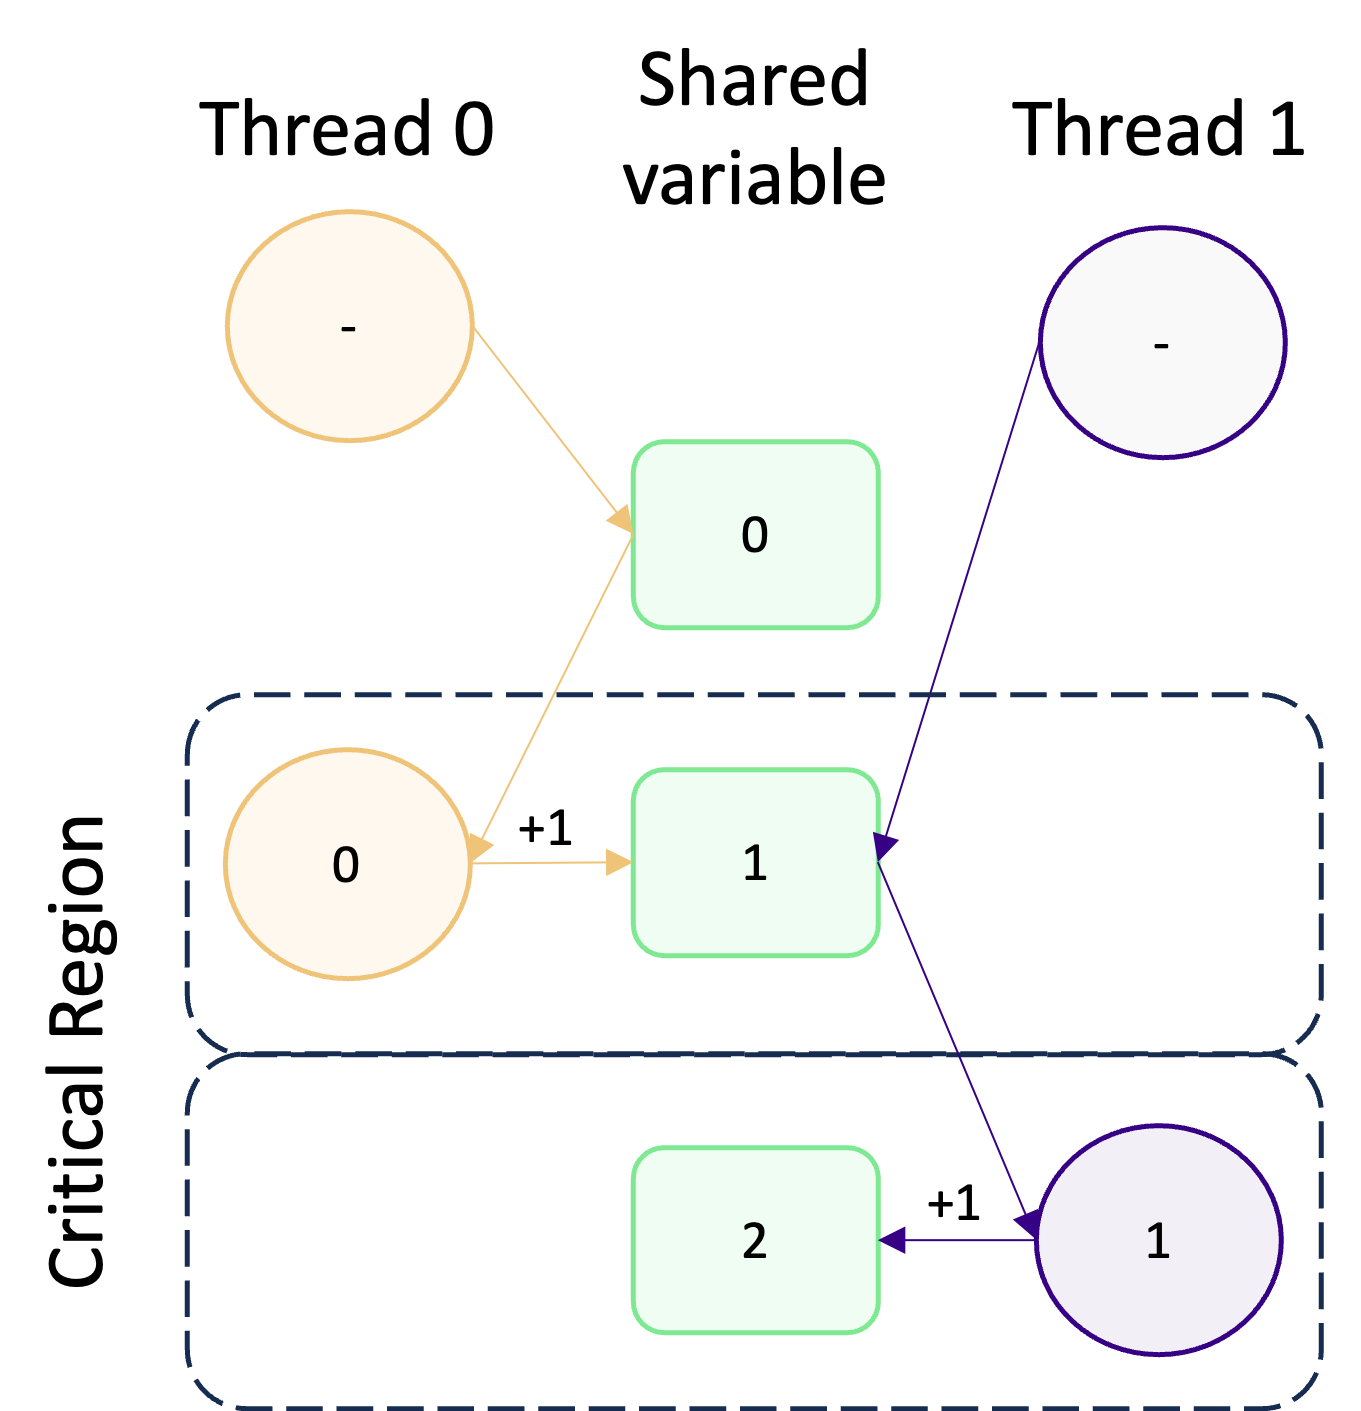
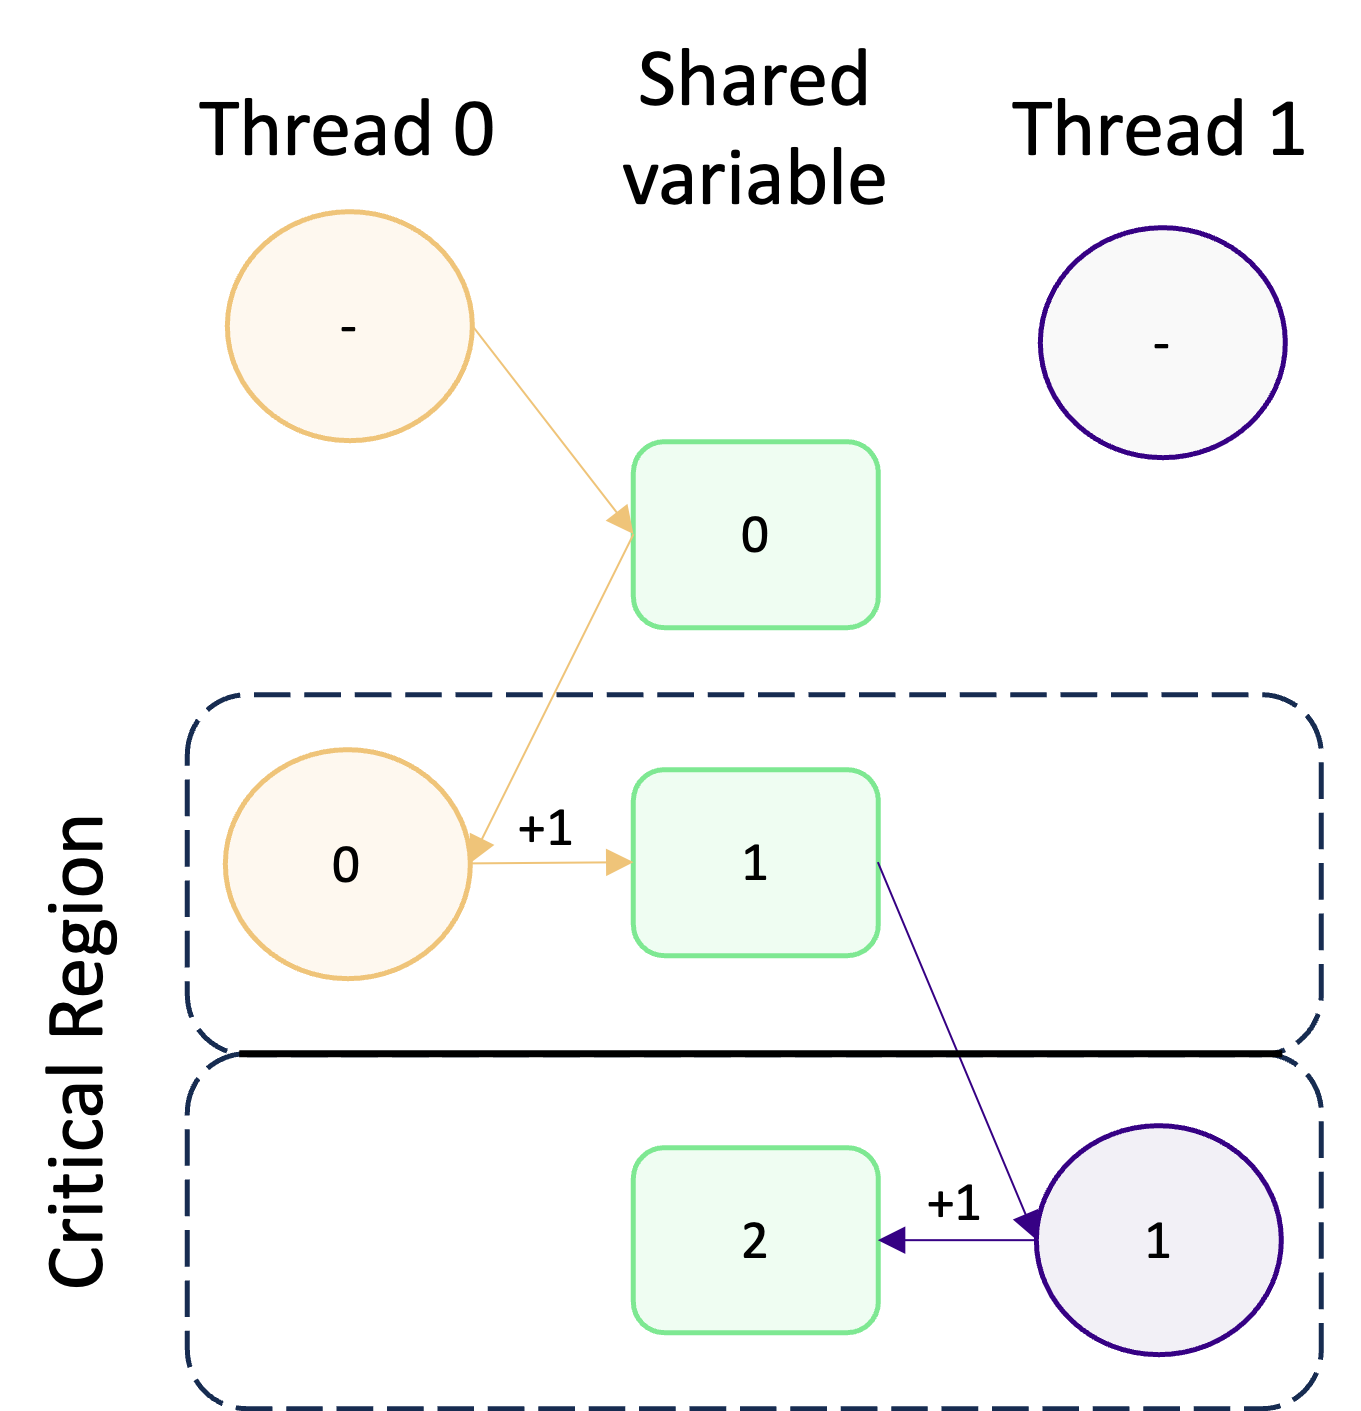
checkpoint

Changed region(s): [[0.1852, 0.7172, 0.9258, 0.7484], [0.6481, 0.5925, 0.6789, 0.6237]]

diff --git a/code/solutions/04-race-condition-lock.c b/code/solutions/04-race-condition-lock.c
@@ -1,0 +1,33 @@
+#include <math.h>
+#include <omp.h>
+#include <stdio.h>
+
+#define ARRAY_SIZE 524288
+
+int main(int argc, char **argv) {
+  float sum = 0;
+  float array[ARRAY_SIZE];
+
+  omp_set_num_threads(4);
+
+#pragma omp parallel for schedule(static)
+  for (int i = 0; i < ARRAY_SIZE; ++i) {
+    array[i] = cos(M_PI * i);
+  }
+
+  omp_lock_t lock;
+  omp_init_lock(&lock);
+
+#pragma omp parallel for schedule(static)
+  for (int i = 0; i < ARRAY_SIZE; i++) {
+    omp_set_lock(&lock);
+    sum += array[i];
+    omp_unset_lock(&lock);
+  }
+
+  printf("Sum: %f\n", sum);
+
+  omp_destroy_lock(&lock);
+
+  return 0;
+}

diff --git a/_episodes/04-synchronisation.md b/_episodes/04-synchronisation.md
@@ -12,7 +12,11 @@ objectives:
 - Learn how to control thread synchronisation
 - Learn how to avoid errors caused by race conditions
 keypoints:
-    - Blah
+- Synchronising threads is important to ensure data consistency and code correctness
+- A race condition happens when multiple threads try to access and modify the same piece of data at the same time
+
+- OpenMP has many synchronisation mechanisms which are used to coordinate threads
+- Atomic operations, locks and critical regions can be used to prevent race conditions
 ---
 
 In the previous episode, we saw how to use parallel regions, and the shortcut parallel for, to split work across
@@ -157,7 +161,7 @@ one of these regions, they are queue up and wait their turn to access the data a
 
 | Region | Description | Label |
 | - | - | - |
-| critical | Critical regions are used to prevent race conditions when threads need to access and modify the same data. Only one thread is allowed in the critical region at the same time, so threads have to queue up to take their turn. | `#pragma omp critical` |
+| critical | Critical regions are used to prevent race conditions when threads need to access and modify the same data. Only one thread is allowed in the critical region at the same time, so threads have to queue up to take their turn. When one thread is finished in the critical region, it proceeds immediately without having to wait for other threads to finish. | `#pragma omp critical` |
 | single | Single regions are used for code which needs to be executed only by a single thread, such as for I/O operations. The first thread to reach the region will execute the code, whilst the other threads will behave as if they've reached a barrier until the executing thread is finished. | `#pragma omp single` |
 | master | The master region is identical to the single, except execution is done by the designated master thread. | `#pragma omp master` |
 
@@ -266,11 +270,74 @@ parallel for construct.
 
 ## Preventing race conditions
 
-### Data dependency
-
 ### Critical region
 
+Earlier in this episode, critical regions were introduced as a way to synchronise threads.
+
+Critical regions
+
+![Critical regions](fig/critical_region.png)
+
+### Locks
+
+Critical regions provide a convenient and straightforward way to synchronise threads and guard data access to prevent
+race conditions. But in some cases, critical regions may not be flexible or granular enough and lead to excessive amount
+of serialisation. If this is the case, we can use *locks* instead to achieve the same effect as a critical region. Locks
+are a mechanism in OpenMP which, just like a critical regions, create regions in our code which only one thread can be
+in at one time. The main advantage of locks, over a critical region, is that we can use locks to protect smaller regions
+of code, giving us more granular control over thread synchronisation. Locks are also far more flexible when it comes to
+making our code more modular, as it is possible to nest locks, or for accessing and modifying global variables.
+
+But in comparison to critical regions, locks are more complicated to use. Instead of using a single `#pragma`, we have
+to initialise and free resources used for the locks, as well as set and unset where locks are in effect. If we make a
+mistake and forget to unset a lock, then we lose all of our parallelism! To create a lock and delete a lock, we use
+`omp_init_lock()` and `omp_destroy_lock()` respectively.
+
+```c
+omp_lock_t lock;          /* Locks are controlled via a lock variable */
+omp_init_lock(&lock);     /* Allocate resources for a lock */
+
+/* The rest of our parallel algorithm goes here */
+
+omp_destroy_lock(&lock);  /* Deallocate resources for a lock */
+```
+
+To set and unset a lock, we use the `omp_set_lock()` and `omp_unset_lock()` functions.
+
+```c
+omp_set_lock(&lock);    /* When a thread reaches this function, it will only return from it when it can progress
+                           into the lock region */
+shared_variable += 1;
+
+omp_unset_lock(&lock);  /* By unsetting a lock, we signal that the next thread can start */
+```
+
+All together, using a lock should look something like the example below.
+
+```c
+#include <omp.h>
+
+omp_lock_t lock;            /* In practise, you should use a better name for your lock */
+omp_init_lock(&lock);       /* Allocate resources for the lock, before the parallel region */
+
+int shared_variable = 0;
+
+#pragma omp parallel
+{
+    omp_set_lock(&lock);    /* Set the lock, so only one thread can update shared_variable at once */
+    shared_variable += 1;
+    omp_unset_lock(&lock);  /* Remember to unset the lock, to signal the next thread can enter the lock region */
+}
+
+omp_destroy_lock(&lock);    /* Deallocate lock resources */
+```
+
+The main disadvantage of locks is the additional code complexity, and the potential for deadlocks if we forget to unset
+a lock or unlock locks in the wrong order if we have multiple in use.
+
 ### Atomic operations
+
+aaa
 
 In OpenMP, atomic operations are operations which are done without interference from other threads. If we make modifying
 some value in an array atomic, then it's guaranteed, by the compiler, that no other thread can read or modify that array
@@ -301,26 +368,6 @@ for (int i = 0; i < 4; ++i) {
 
 If you have too many atomic regions, then performance is degraded as threads stop and start to access the atomic region.
 Atomic operations are also not very good for complex data structures, really only good on primitive types and pointers.
-
-### Locks
-
-Locks are like critical regions, but more flexible.
-
-```c
-omp_lock_t lock;
-omp_init_lock(&lock);
-
-int shared_variable = 0;
-
-#pragma omp parallel
-{
-    omp_set_lock(&lock);
-    shared_variable += 1;
-    omp_unset_lock(&lock);
-}
-
-omp_destroy_lock(&lock);
-```
 
 > ## Remove the race condition
 >
@@ -369,6 +416,54 @@ omp_destroy_lock(&lock);
 > Find and fix the race condition in the program. Try using both an atomic operation and by using locks.
 >
 > > ## Solution
+> >
+> > We only need to modify the second loop, as each iteration in the first loop is working on an independent piece of
+> > memory, meaning there will be no race condition. In the code below, we have used an atomic operation to increment
+> > `sum`.
+> >
+> > ```c
+> > #include <math.h>
+> > #include <omp.h>
+> > #include <stdio.h>
+> >
+> > #define ARRAY_SIZE 524288
+> >
+> > int main(int argc, char **argv) {
+> >   float sum = 0;
+> >   float array[ARRAY_SIZE];
+> >
+> >   omp_set_num_threads(4);
+> >
+> > #pragma omp parallel for schedule(static)
+> >   for (int i = 0; i < ARRAY_SIZE; ++i) {
+> >     array[i] = cos(M_PI * i);
+> >   }
+> >
+> > #pragma omp parallel for schedule(static)
+> >   for (int i = 0; i < ARRAY_SIZE; i++) {
+> > #pragma omp atomic
+> >     sum += array[i];
+> >   }
+> >
+> >   printf("Sum: %f\n", sum);
+> >
+> >   return 0;
+> > }
+> > ```
+> >
+> > Using a critical region or a lock would also work here. If the loop was more complicated than a single increment
+> > operation, then we would have to use a critical region or a lock. You can see the solution using a lock
+> > [here](code/solutions/04-race-condition-lock.c).
+> >
+> > Of course in reality, we wouldn't bother doing this to the second loop. We'd just use a parallel reduction instead
+> > to handle thread synchronisation for us!
+> >
+> > ```c
+> > #pragma omp parallel for schedule(static) reduction(+:sum)
+> > for (int i = 0; i < ARRAY_SIZE; ++i) {
+> >     sum += array[i];
+> > }
+> > ```
 > >
 > {: .solution}
 {: .challenge}
